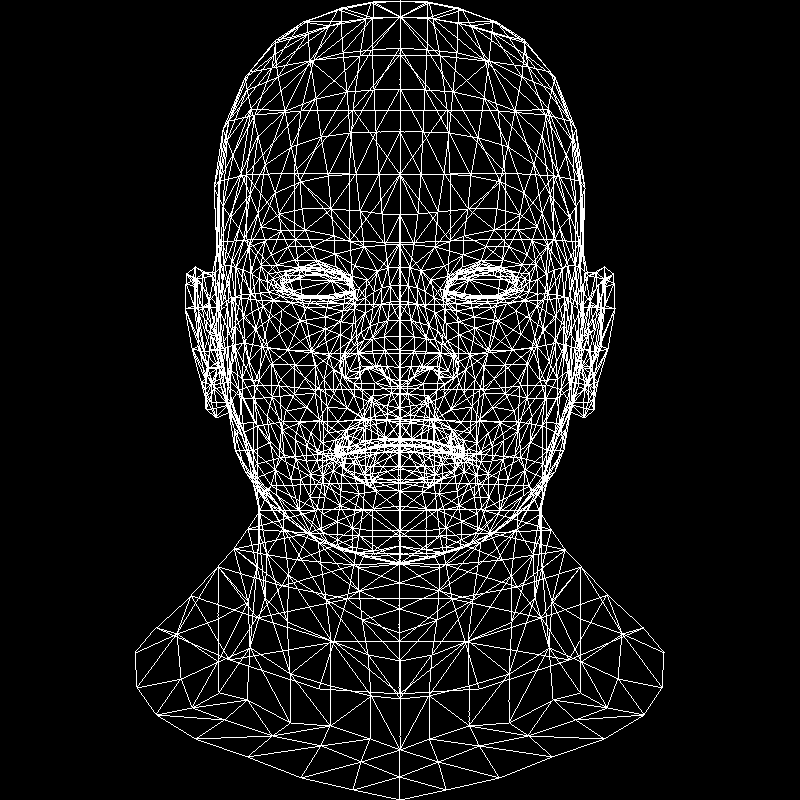
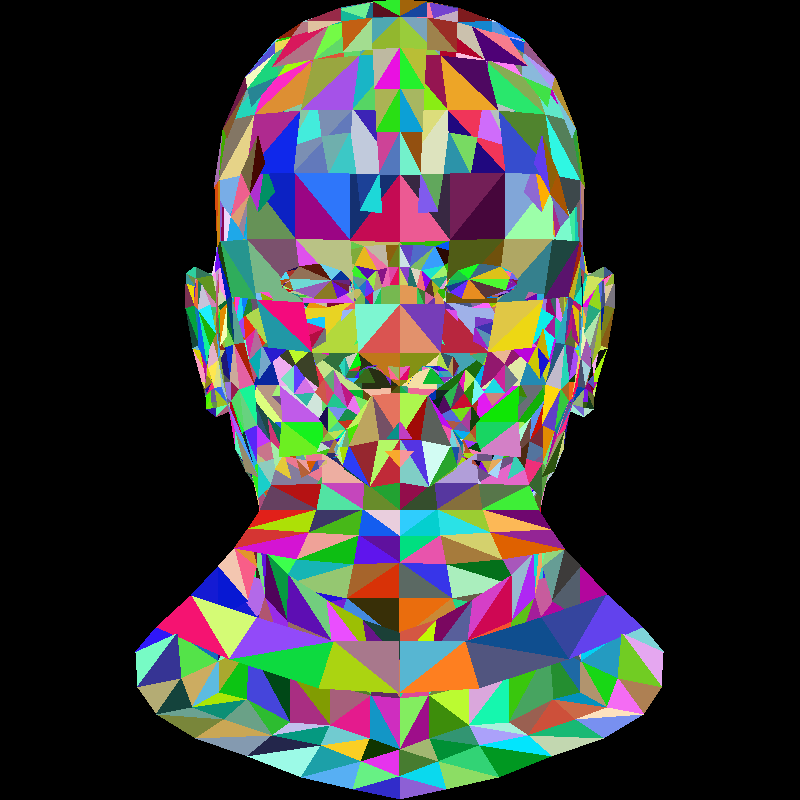
Drawing model faces as filled triangles
Of a random color for the moment

diff --git a/src/main.rs b/src/main.rs
@@ -1,12 +1,14 @@
 use image::{RgbImage, Rgb, ImageBuffer};
 use image::imageops::{flip_vertical};
-use nalgebra::{Vector2, Vector3};
+use nalgebra::{Point2};
+use rand::Rng;
 use std::mem;
+
 mod model;
 
-static red: Rgb<u8> = Rgb([255, 0, 0]);
-static white: Rgb<u8> = Rgb([255, 255, 255]);
-static green: Rgb<u8> = Rgb([0, 255, 0]);
+static WHITE: Rgb<u8> = Rgb([255, 255, 255]);
+static RED: Rgb<u8> = Rgb([255, 0, 0]);
+static GREEN: Rgb<u8> = Rgb([0, 255, 0]);
 
 fn line(mut x0: i32, mut y0: i32, mut x1: i32, mut y1: i32, image: &mut RgbImage, color: Rgb<u8>) {
     let mut steep = false;
@@ -40,7 +42,7 @@ fn line(mut x0: i32, mut y0: i32, mut x1: i32, mut y1: i32, image: &mut RgbImage
     }
 }
 
-fn triangle(mut t0: Vector2<i32>, mut t1: Vector2<i32>, mut t2: Vector2<i32>, image: &mut RgbImage, color: Rgb<u8>) {
+fn triangle(mut t0: Point2<i32>, mut t1: Point2<i32>, mut t2: Point2<i32>, image: &mut RgbImage, color: Rgb<u8>) {
     // Sort coordinates
 
     if t0.y > t1.y {
@@ -53,29 +55,66 @@ fn triangle(mut t0: Vector2<i32>, mut t1: Vector2<i32>, mut t2: Vector2<i32>, im
 
     if t1.y > t2.y {
         mem::swap(&mut t1, &mut t2);
-    }; 
+    };
 
-    line(t0.x, t0.y, t1.x, t1.y, image, color);
-    line(t1.x, t1.y, t2.x, t2.y, image, color);
-    line(t2.x, t2.y, t0.x, t0.y, image, color);
-}   
+    let total_height = t2.y - t0.y;
+
+    for i in 0..total_height {
+        let second_half: bool = i > t1.y - t0.y || t1.y == t0.y;
+        let segment_height: i32 = if second_half { t2.y-t1.y } else { t1.y - t0.y };
+        let alpha: f32 = i as f32 / total_height as f32;
+        let beta: f32 = (i as f32 - (if second_half { t1.y as f32 - t0.y as f32} else { 0.0 })) / segment_height as f32;
+
+        let mut a_i = Point2::<i32>::new(t2.x - t0.x, t2.y - t0.y);
+        let a_f = Point2::<f32>::new(a_i.x as f32, a_i.y as f32) * alpha;
+        a_i = Point2::<i32>::new(t0.x + a_f.x as i32, t0.y + a_f.y as i32);
+
+        let mut b_i;
+
+
+        if second_half {
+            b_i = Point2::<i32>::new(t2.x - t1.x, t2.y - t1.y);
+            let b_f = Point2::<f32>::new(b_i.x as f32, b_i.y as f32) * beta;
+            b_i = Point2::<i32>::new(t1.x + b_f.x as i32, t1.y + b_f.y as i32);
+        }
+
+        else {
+            b_i = Point2::<i32>::new(t1.x - t0.x, t1.y - t0.y);
+            let b_f = Point2::<f32>::new(b_i.x as f32, b_i.y as f32) * beta;
+            b_i = Point2::<i32>::new(t0.x + b_f.x as i32, t0.y + b_f.y as i32);
+        }
+
+        if a_i.x > b_i.x {
+            mem::swap(&mut a_i, &mut b_i);
+        }
+
+        for j in a_i.x..b_i.x {
+            if j < 800 {
+                (*image).put_pixel(j as u32, (t0.y + i) as u32, color);
+            }
+        }
+    }
+}
 
 fn draw_model(model: model::Model, image: &mut RgbImage, width: u32, height: u32) {
     for face in model.faces {
-        let mut screen_coordinates: Vec<Vector2<i32>> = Vec::new();
+        let mut screen_coordinates: Vec<Point2<i32>> = Vec::new();
 
         for i in 0..3 {
             let world_coordinates = model.verts.get(face[i] as usize).unwrap();
 
             screen_coordinates.push(
-                Vector2::new(
-                    ((world_coordinates.x + 1.0) * width as f32 / 2.0) as i32, 
+                Point2::new(
+                    ((world_coordinates.x + 1.0) * width as f32 / 2.0) as i32,
                     ((world_coordinates.y + 1.0) * height as f32 / 2.0) as i32
                 )
             );
         }
 
-        triangle(screen_coordinates[0], screen_coordinates[1], screen_coordinates[2], image, white);
+        let mut rng = rand::thread_rng();
+        let color =  Rgb([rng.gen::<u8>(), rng.gen::<u8>(), rng.gen::<u8>()]);
+
+        triangle(screen_coordinates[0], screen_coordinates[1], screen_coordinates[2], image, color);
     }
 }
 
@@ -83,12 +122,12 @@ fn main() {
     let width: u32 = 800;
     let height: u32 = 800;
 
-    let mut image : RgbImage = ImageBuffer::new(width, height);
-   
+    let mut image: RgbImage = ImageBuffer::new(width, height);
+
     let model = model::Model::from_file("obj/african_head.obj");
     draw_model(model, &mut image, width, height);
 
     image = flip_vertical(&image);
-    
+
     image.save("image.png").unwrap();
 }
